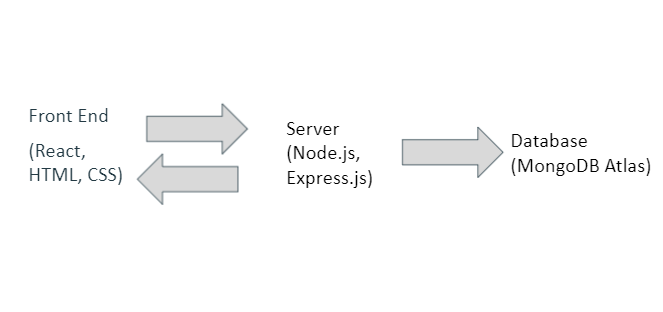
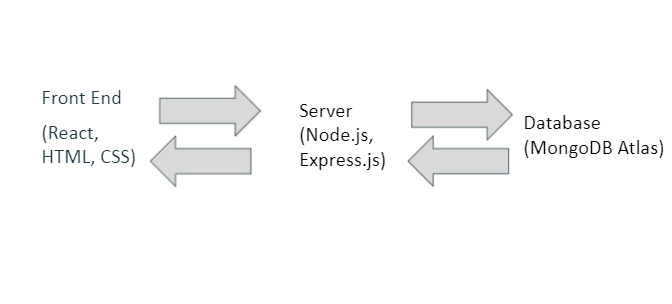
finish up api blog post

Changed region(s): [[0.0302, 0.2664, 0.3922, 0.6513], [0.6033, 0.2961, 0.9955, 0.6217], [0.4223, 0.3553, 0.5732, 0.5921]]

diff --git a/blog_markups/apis.html b/blog_markups/apis.html
@@ -23,3 +23,32 @@
 <p>My server also functions as an API. I created endpoints that can accept GET and POST requests. If I want to create a new blog post, I make a POST request to the API. If I want to get all of the data about the blog posts, I make a GET request to the API (this is what my React frontend does).</p>
 
 <p>However, the data about my blog posts is not actually stored in the backend server. For storing the blog posts, I created a database to hold information such as the title of the blog post, content of the blog post, and they day it was created. Because data is not stored in the server, my server has to connect to the database and get the data from there. This flow of data from the frontend to the backend to the database is called the Controller-Model-View Schema.</p>
+
+<figure>
+    <img src="https://raw.githubusercontent.com/jadalilleboe/personal-website-server/main/.github/images/cmvdiagram.png" alt="Diagram of Controller Model View Schema.">
+    <figcaption>Diagram of Controller-Model-View Schema.</figcaption>
+</figure>
+
+<p>In this schema, the "View" (AKA frontend) and the "Model" (AKA database) never directly communicate with each other. Data only can flow from the database to the frontend by going through the "Controller" (AKA server). The server controls the communication between the frontend and the database.</p>
+
+<h2>Tools I Used to Create My Server and API</h2>
+
+<p>Now, I'll share the specific tools I used to create my blog server and API.</p>
+
+<h3>Node.js</h3>
+
+<p>I used <a href="https://nodejs.org/en/" target="_blank">Node.js</a> to create the server for my website. Node.js is a backend framework for the JavaScript language. Since I was already using JavaScript with React on the frontend, it seemed like a natural choice for the backend. My frontend can send requests to my Node.js server and get responses back.</p>
+
+<h3>Express.js</h3>
+
+<p>I used <a href="https://expressjs.com/" target="_blank">Express.js</a> to create the endpoints of my API and do all of the routing for the server. Express dictates how different requests such as GET and POST are handled by the server.</p>
+
+<h3>MongoDB Atlas</h3>
+
+<p>I used MongoDB and their cloud service <a href="https://www.mongodb.com/cloud/atlas" target="_blank">MongoDB Atlas</a> as my database. The nice thing about MongoDB Atlas is that you can host your database for free! There's also a really great node package called Mongoose that I used to connect my backend and database.</p>
+
+<h3>Heroku</h3>
+
+<p>I used <a href="https://www.heroku.com/" target="_blank">Heroku</a> to host my server. I needed to host my server somewhere because my website needs to call upon it whenever someone visits the blog webpage. Something I didn't like about Heroku is that an app will idle if you're using the free tier. This means it would take a good amount of time to load the data whenever my blog page would be loaded. I had to upgrade to the "Hobby" tier to stop my server from idling, and it costs $7/month...</p>
+
+<p>That's how I created my server and API! If you're interested in learning about server-side programming or making your own API, I'd recommend checking out <a href="https://fullstackopen.com/en/" target="_blank">Full Stack Open.</a></p>
